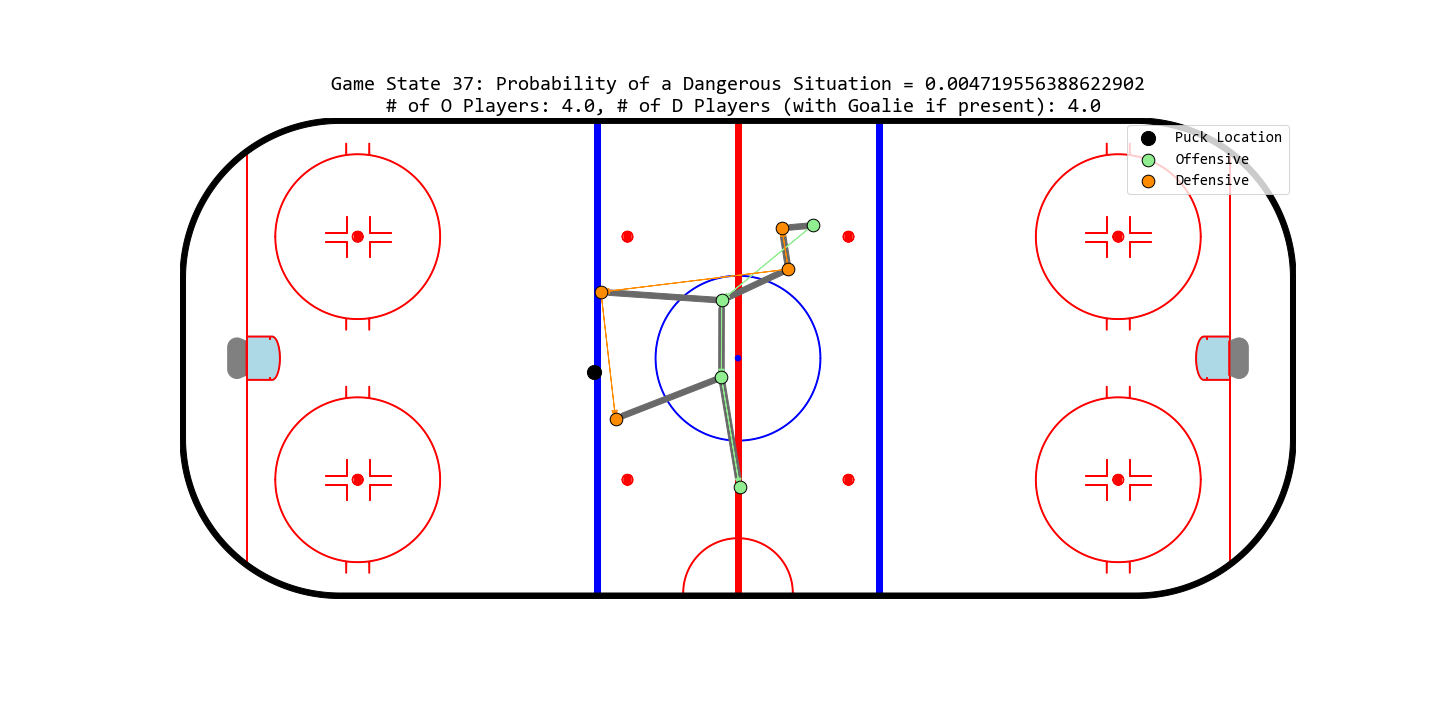
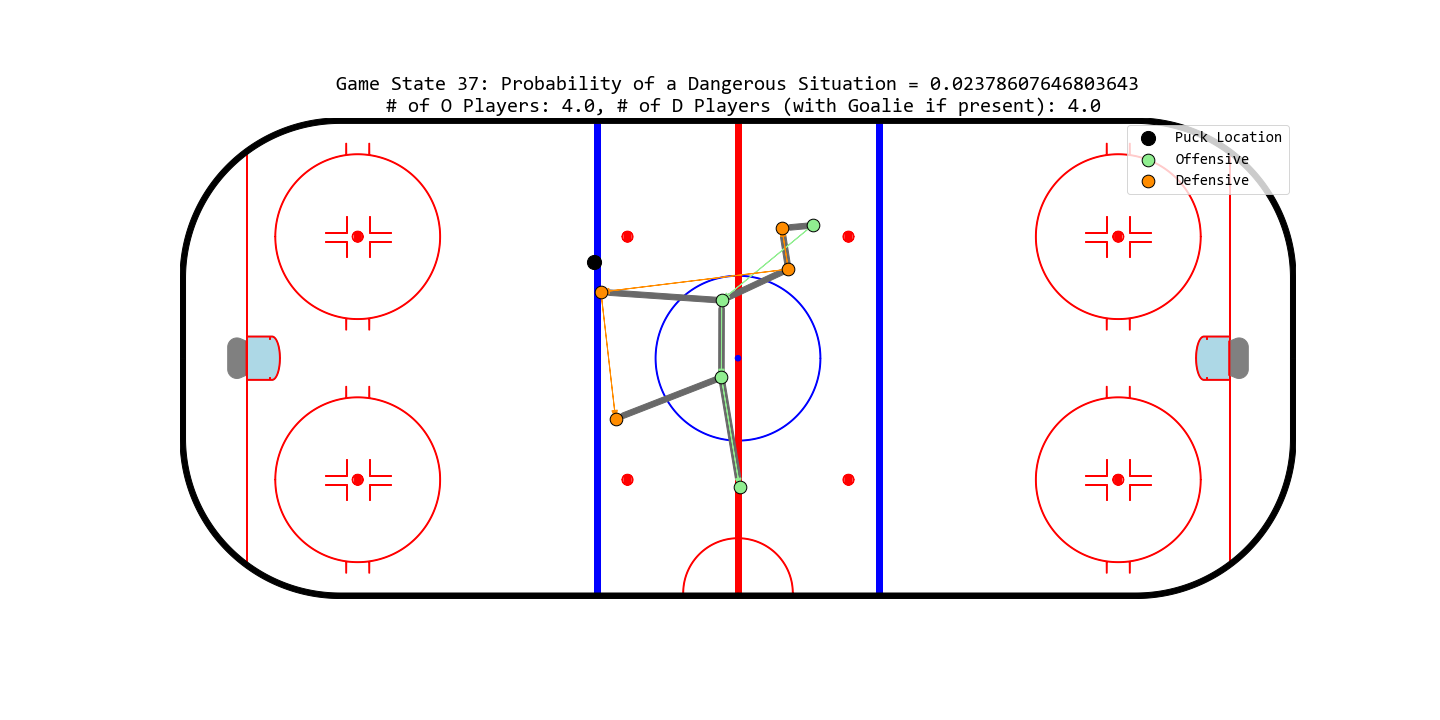
Fixed bug in hockey_mst & m&p file that caused some players not to plot

Changed region(s): [[0.2188, 0.0917, 0.8125, 0.1528], [0.4062, 0.4889, 0.4375, 0.5194], [0.4062, 0.3361, 0.4375, 0.3667]]

diff --git a/modelling_and_plotting.py b/modelling_and_plotting.py
@@ -223,16 +223,22 @@ for i in [278,71,37,12]:
         raw_home_coord_pairs = raw_coord_pairs[7:][~(player_role[7:] == "Goalie")]
         home_coord_pairs = raw_home_coord_pairs[~np.isnan(raw_home_coord_pairs)]
         home_coord_pairs = home_coord_pairs.reshape(int(len(home_coord_pairs)/2),2)
+
+        print("Offensive")
+        print(home_coord_pairs)
         plotted = np.argwhere(df_all_no_na["O MST"].iloc[i] > 0)
         for m in plotted:
             j,k = m
             rink.arrow(home_coord_pairs[j,0],home_coord_pairs[j,1],home_coord_pairs[k,0],home_coord_pairs[k,1], color= 'lightgreen')
-        rink.scatter(df_all_no_na['x_coord'].iloc[i],y_coord, label = "Puck Location", c='black', s=200, ax = ax)
+        rink.scatter(df_all_no_na['x_coord'].iloc[i],df_all_no_na['y_coord'].iloc[i], label = "Puck Location", c='black', s=200, ax = ax,zorder=102)
         rink.scatter(home_coord_pairs.T[0],home_coord_pairs.T[1], label = "Offensive", c='lightgreen', s=160, ax = ax,edgecolors='black',zorder=101)
 
         raw_away_coord_pairs = raw_coord_pairs[:7]#[~(player_role[7:] == "Goalie")]
         away_coord_pairs = raw_away_coord_pairs[~np.isnan(raw_away_coord_pairs)]
         away_coord_pairs = away_coord_pairs.reshape(int(len(away_coord_pairs)/2),2)
+
+        print("Defensive")
+        print(away_coord_pairs)
         plotted = np.argwhere(df_all_no_na["D MST"].iloc[i] > 0)
         for m in plotted:
             j,k = m
@@ -243,25 +249,31 @@ for i in [278,71,37,12]:
         raw_home_coord_pairs = raw_coord_pairs[7:]#[~(player_role[7:] == "Goalie")]
         home_coord_pairs = raw_home_coord_pairs[~np.isnan(raw_home_coord_pairs)]
         home_coord_pairs = home_coord_pairs.reshape(int(len(home_coord_pairs)/2),2)
+        print("Defensive")
+        print(home_coord_pairs)
         plotted = np.argwhere(df_all_no_na["D MST"].iloc[i] > 0)
         for m in plotted:
             j,k = m
             rink.arrow(home_coord_pairs[j,0],home_coord_pairs[j,1],home_coord_pairs[k,0],home_coord_pairs[k,1], color= 'darkorange')
         rink.scatter(home_coord_pairs.T[0],home_coord_pairs.T[1], label = "Defensive", c='darkorange', s=160, ax=ax,edgecolors='black',zorder=101)
 
-        raw_away_coord_pairs = raw_coord_pairs[:7][~(player_role[7:] == "Goalie")]
+        raw_away_coord_pairs = raw_coord_pairs[:7][~(player_role[:7] == "Goalie")]
         away_coord_pairs = raw_away_coord_pairs[~np.isnan(raw_away_coord_pairs)]
         away_coord_pairs = away_coord_pairs.reshape(int(len(away_coord_pairs)/2),2)
 
+        print("Offensive")
+        print(away_coord_pairs)
         plotted = np.argwhere(df_all_no_na["O MST"].iloc[i] > 0)
+        print(plotted)
         for m in plotted:
             j,k = m
             rink.arrow(away_coord_pairs[j,0],away_coord_pairs[j,1],away_coord_pairs[k,0],away_coord_pairs[k,1], color= 'lightgreen')
-        rink.scatter(df_all_no_na['x_coord'].iloc[i],y_coord, label = "Puck Location",c='black', s=200, ax=ax,zorder=101)
+        rink.scatter(df_all_no_na['x_coord'].iloc[i],df_all_no_na['y_coord'].iloc[i], label = "Puck Location",c='black', s=200, ax=ax,zorder=102)
         rink.scatter(away_coord_pairs.T[0], away_coord_pairs.T[1], label = "Offensive", c='lightgreen', s=160,ax=ax,edgecolors='black',zorder=101)
     plt.title("Game State "+str(i)+": Probability of a Dangerous Situation = "+str(prob)+'\n # of O Players: '+str(df_all_no_na['O Players'].iloc[i])+', # of D Players (with Goalie if present): '+str(df_all_no_na['D Players'].iloc[i]), fontsize = 20)
     leg = plt.legend(fontsize = 15)
     leg.set_zorder(120)
+
     plt.savefig(fname='./tool_test_data/Game_State_'+str(i)+'.png')
     features_coef.to_csv('./tool_test_data/feature_values'+str(i)+'.csv', header=False, index=False)
     df_all_no_na.iloc[i].to_csv('./tool_test_data/raw_values'+str(i)+'.csv', header=False, index=True)

diff --git a/hockey_mst.py b/hockey_mst.py
@@ -113,7 +113,7 @@ def ind_var_calculation(df, x_cols, y_cols, positions):
                 df['D MST'].iloc[i],df['D_Avg_Edge'].iloc[i], df['D_Total_Edge'].iloc[i], df["D_Avg_Edges per Player"].iloc[i] = mst_properties(home_coord_pairs)
 
                 #excluding goalie and empty coordinate spots
-                raw_away_coord_pairs = raw_coord_pairs[:7][~(player_role[7:] == "Goalie")]
+                raw_away_coord_pairs = raw_coord_pairs[:7][~(player_role[:7] == "Goalie")]
                 away_coord_pairs = raw_away_coord_pairs[~np.isnan(raw_away_coord_pairs)]
                 away_coord_pairs = away_coord_pairs.reshape(int(len(away_coord_pairs)/2),2)
                 df['O Players'].iloc[i] = len(away_coord_pairs)
